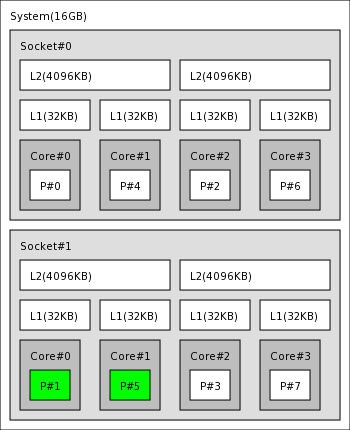
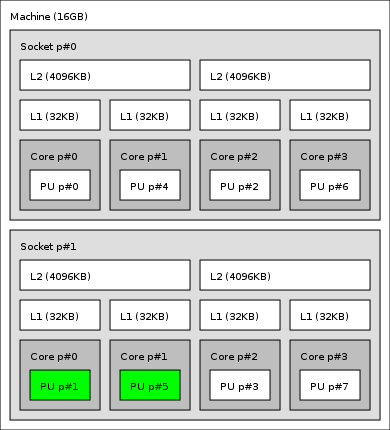
Fix proc object width in graphical lstopo, upda...
Fix proc object width in graphical lstopo, update documentation images

This commit was SVN r1893.

diff --git a/utils/lstopo-draw.c b/utils/lstopo-draw.c
@@ -352,7 +352,7 @@ lstopo_obj_snprintf(char *text, size_t textlen, hwloc_obj_t obj, int logical)
 static void
 proc_draw(hwloc_topology_t topology, struct draw_methods *methods, int logical, hwloc_obj_t level, void *output, unsigned depth, unsigned x, unsigned *retwidth, unsigned y, unsigned *retheight)
 {
-  *retwidth = fontsize ? 5*fontsize : gridsize;
+  *retwidth = fontsize ? (6-logical)*fontsize : gridsize;
   *retheight = gridsize + (fontsize ? (fontsize + gridsize) : 0);
 
   DYNA_CHECK();
